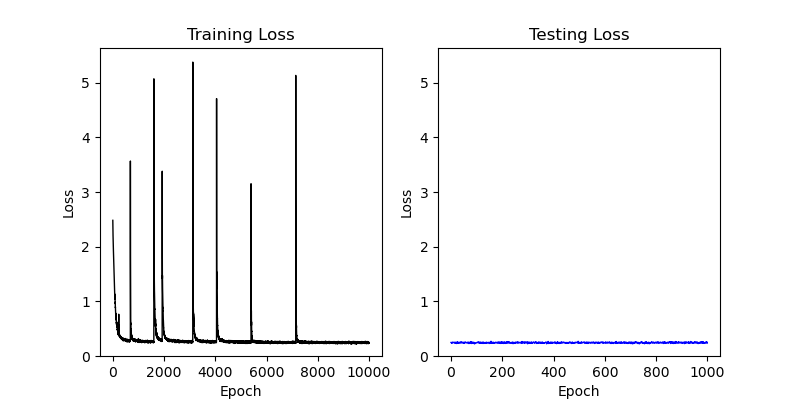
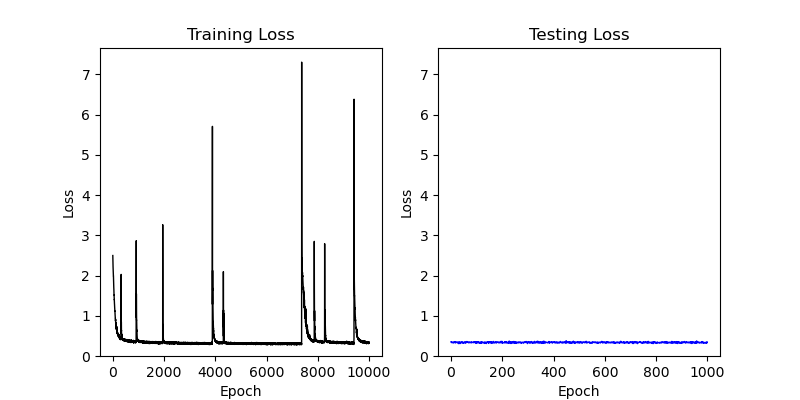
Add hold out to training set

diff --git a/experiments/pointerDemonstration.py b/experiments/pointerDemonstration.py
@@ -33,6 +33,7 @@ def getFileName():
 def handleArguments():
     parser = argparse.ArgumentParser(description='Run pointer demonstration.')
     parser.add_argument('-hd','--highest-dominoe', type=int, default=9, help='the highest dominoe in the board')
+    parser.add_argument('--train-fraction', type=float, default=0.75, help='the fraction of dominoes in the set to train with')
     parser.add_argument('-mn','--min-seq-length', type=int, default=4, help='the minimum tokens per sequence')
     parser.add_argument('-mx','--max-seq-length', type=int, default=12, help='the maximum tokens per sequence')
     parser.add_argument('-bs','--batch-size',type=int, default=512, help='number of sequences per batch')
@@ -49,6 +50,7 @@ def handleArguments():
     args = parser.parse_args()
 
     assert args.min_seq_length <= args.max_seq_length, "min seq length has to be less than or equal to max seq length"
+    assert args.train_fraction > 0 and args.train_fraction <= 1, "train fraction must be greater than 0 and less than or equal to 1"
     
     return args
     
@@ -59,8 +61,23 @@ def trainTestModel():
     # get values from the argument parser
     highestDominoe = args.highest_dominoe
     listDominoes = df.listDominoes(highestDominoe)
+
+    # create full set of dominoes (representing non-doubles in both ways)
+    doubleDominoes = listDominoes[:,0] == listDominoes[:,1]
+    nonDoubleReverse = listDominoes[~doubleDominoes][:,[1,0]] # represent each dominoe in both orders
+
+    # list of full set of dominoe representations and value of each
+    listDominoes = np.concatenate((listDominoes, nonDoubleReverse), axis=0)
     dominoeValue = np.sum(listDominoes, axis=1)
 
+    # subset dominoes
+    keepFraction = args.train_fraction
+    keepNumber = int(len(listDominoes)*keepFraction)
+    keepIndex = np.sort(np.random.permutation(len(listDominoes))[:keepNumber]) # keep random fraction (but sort in same way)
+    keepDominoes = listDominoes[keepIndex]
+    keepValue = dominoeValue[keepIndex]
+
+    # other input and network parameters
     minSeqLength = args.min_seq_length
     maxSeqLength = args.max_seq_length
     batchSize = args.batch_size
@@ -95,7 +112,7 @@ def trainTestModel():
         #input, target = dominoeBatch(batchSize, cSeqLength, listDominoes, dominoeValue, highestDominoe)
         #input, target = input.to(device), target.to(device)
 
-        input, target, mask = df.dominoeUnevenBatch(batchSize, minSeqLength, maxSeqLength, listDominoes, dominoeValue, highestDominoe, ignoreIndex=ignoreIndex)
+        input, target, mask = df.dominoeUnevenBatch(batchSize, minSeqLength, maxSeqLength, keepDominoes, keepValue, highestDominoe, ignoreIndex=ignoreIndex)
         input, target, mask = input.to(device), target.to(device), mask.to(device)
 
         # zero gradients, get output of network
